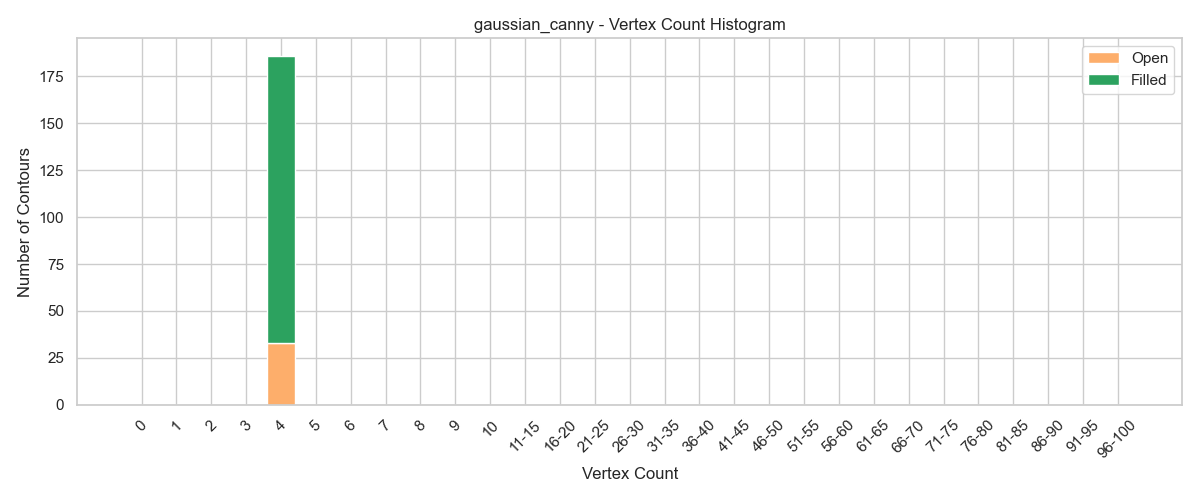
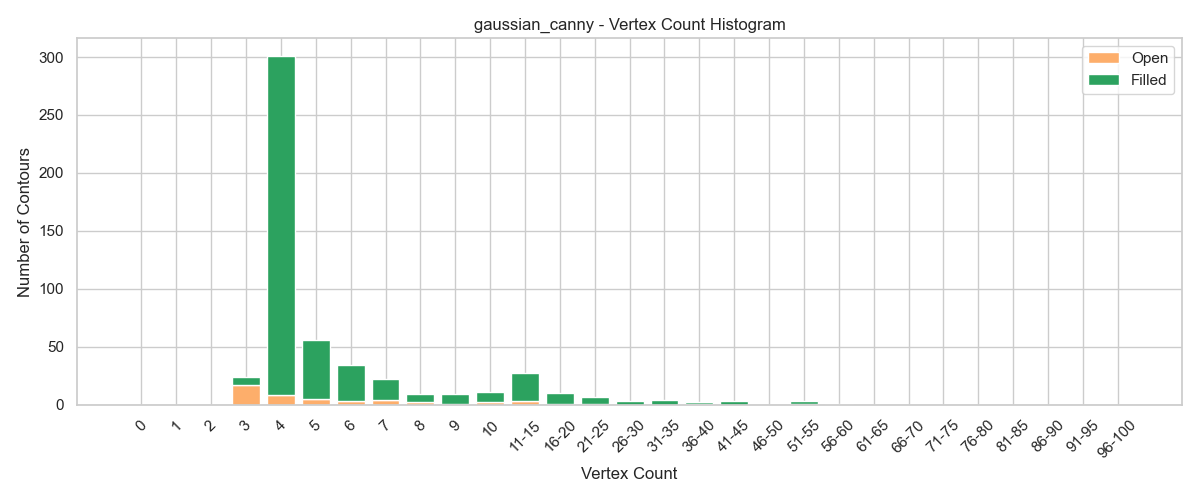
relax quad assumption on edge from contour for experiment

diff --git a/main.py b/main.py
@@ -49,6 +49,18 @@ def config_to_name(cfg):
         parts.append("+".join(cfg["post"]))
     return "_".join(parts)
 
+def display_canny_parameters_effect(img, pipeline, t1_values, t2_values):
+    fig, axes = plt.subplots(len(t1_values), len(t2_values), figsize=(12, 12))
+    for i, t1 in enumerate(t1_values):
+        for j, t2 in enumerate(t2_values):
+            pipeline.detector.t1 = t1
+            pipeline.detector.t2 = t2
+            edges = pipeline.run(img)
+            axes[i, j].imshow(edges, cmap="gray")
+            axes[i, j].set_title(f"t1={t1}, t2={t2}")
+            axes[i, j].axis("off")
+    plt.tight_layout()
+    plt.show()
 
 # ===== CONTOURS =====
 
@@ -201,9 +213,12 @@ def extract_edges(contours):
 
     for c in contours:
         pts = c["contour"].reshape(-1, 2)
-        for i in range(4):
+        if len(pts) < 2:
+            continue
+
+        for i in range(len(pts)):
             p1 = pts[i]
-            p2 = pts[(i + 1) % 4]
+            p2 = pts[(i + 1) % len(pts)]
             dx = p2[0] - p1[0]
             dy = p2[1] - p1[1]
             edges.append((p1, p2))
@@ -237,6 +252,7 @@ def plot_edge_direction_on_unit_circle(
     counts, bin_edges, _ = ax.hist(
         angles,
         bins=num_bins,
+        weights=norms,
         color="#3182bd",
         alpha=0.75,
         edgecolor="black",
@@ -253,31 +269,12 @@ def plot_edge_direction_on_unit_circle(
     plt.savefig(output_path, dpi=150)
     plt.close(fig)
 
-    # ---- Top direction bins ----
-    print(f"\nTop {top_k} directions — {title}:")
-
-    bin_width = 180 / num_bins
-    bin_ids = (degrees // bin_width) * bin_width
-
-    direction_counts = {}
-    for b in bin_ids:
-        key = int(b)
-        direction_counts[key] = direction_counts.get(key, 0) + 1
-
-    top_dirs = sorted(direction_counts.items(), key=lambda x: x[1], reverse=True)[
-        :top_k
-    ]
-
-    for deg, cnt in top_dirs:
-        print(f"{deg:3d}°–{int(deg+bin_width):3d}° : {cnt}")
-
-
 # ===== CONFIG =====
 
 CONTOUR_FILTER_CONFIG = {
     "min_vertices": 3,
-    "require_convex": True,
-    "require_quadrilateral": True,
+    "require_convex": False,
+    "require_quadrilateral": False,
     "enable_min_area": False,
     "min_area": 10,
     "enable_min_aspect_ratio": False,
@@ -307,7 +304,8 @@ os.makedirs(HIST_DIR, exist_ok=True)
 
 # ===== MAIN =====
 
-img = cv2.imread("data\\house1\\images\\2026-03-23_19.31.05.png")
+# img = cv2.imread("data\\house1\\images\\2026-03-23_19.31.05.png")
+img = cv2.imread("data\\elven-house\\images\\2026-04-01_23.44.16.png")
 kernel = np.ones((3, 3), np.uint8)
 
 for cfg in configs:
@@ -315,6 +313,7 @@ for cfg in configs:
     edges = pipeline.run(img)
     name = config_to_name(cfg)
     cv2.imwrite(os.path.join(EDGE_DIR, f"{name}.png"), edges)
+    # display_canny_parameters_effect(img, pipeline, t1_values=[50, 100, 150], t2_values=[150, 200, 250])
 
     edges_clean = cv2.morphologyEx(edges, cv2.MORPH_CLOSE, kernel)
     contours, hierarchy = cv2.findContours(

diff --git a/src/pipeline/edge_detector.py b/src/pipeline/edge_detector.py
@@ -14,7 +14,7 @@ class EdgeDetector(ABC):
         pass
 
 class CannyDetector(EdgeDetector):
-    def __init__(self, t1=50, t2=150, logger=LOGGER):
+    def __init__(self, t1=50, t2=100, logger=LOGGER):
         super().__init__(logger)
         self.t1 = t1
         self.t2 = t2
